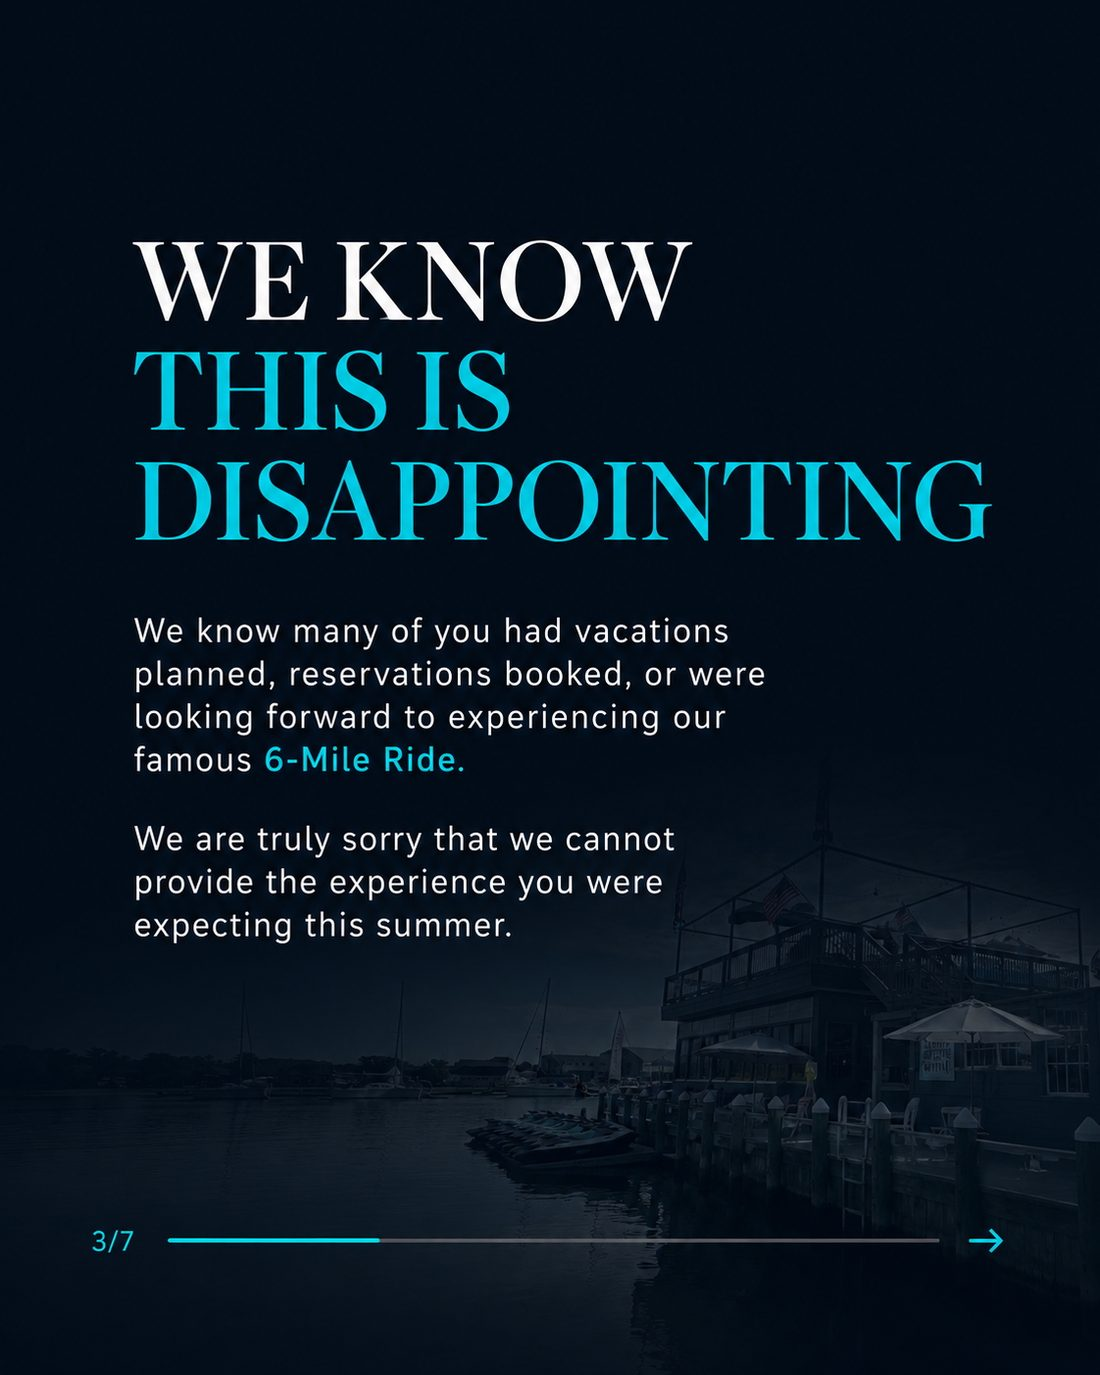
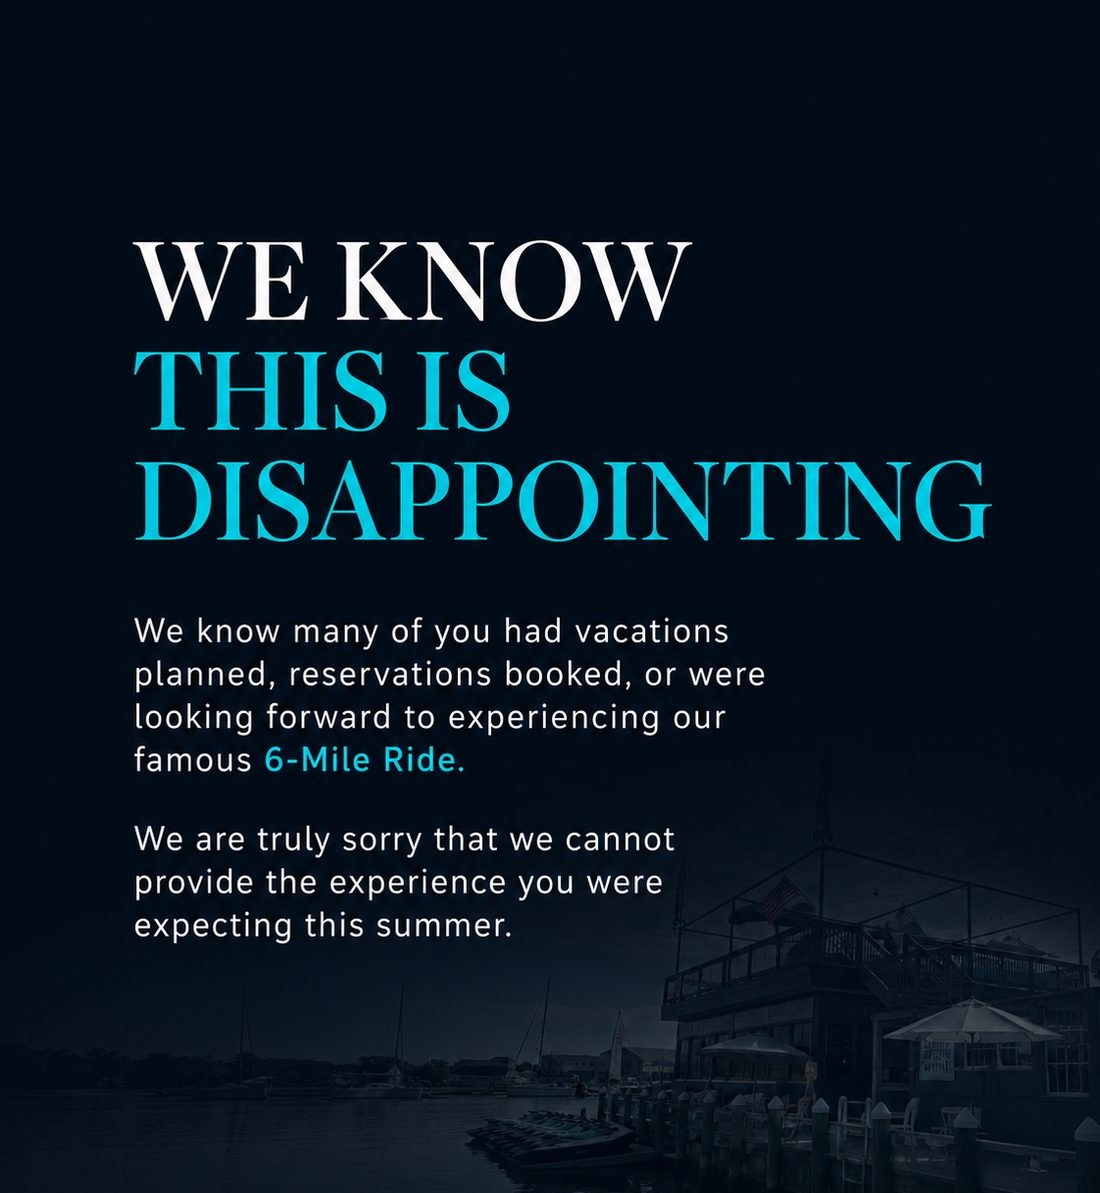
Notice popup: crop slide pager bars, add scroll-down hint
The n/7 progress bars (designed for horizontal swiping) are cropped
out of each slide, detected per slide since positions vary. A bouncing
"Scroll for more" pill now floats above the sticky call bar and fades
once the visitor scrolls. Also fixes the popup sometimes opening
mid-scroll: scroll anchoring is disabled on the card and slides get
explicit dimensions so image loads no longer shift the scroll position.

diff --git a/suspension-notice.js b/suspension-notice.js
@@ -28,7 +28,7 @@
   var css = '' +
     '.ntcpop { position: fixed; inset: 0; z-index: 99999; display: none; align-items: center; justify-content: center; padding: 1rem; background: rgba(2, 25, 34, 0.82); backdrop-filter: blur(6px); -webkit-backdrop-filter: blur(6px); opacity: 0; transition: opacity 0.25s ease; }' +
     '.ntcpop.is-open { display: flex; opacity: 1; }' +
-    '.ntcpop__card { position: relative; width: 100%; max-width: 480px; max-height: 92vh; overflow-y: auto; background: #021922; color: #fff; border-radius: 18px; border-top: 4px solid #debc6b; box-shadow: 0 30px 80px rgba(0, 0, 0, 0.55), 0 0 0 1px rgba(222, 188, 107, 0.15); transform: translateY(14px) scale(0.98); transition: transform 0.3s cubic-bezier(0.2, 0.8, 0.2, 1); font-family: "Manrope", system-ui, sans-serif; -webkit-overflow-scrolling: touch; }' +
+    '.ntcpop__card { position: relative; width: 100%; max-width: 480px; max-height: 92vh; overflow-y: auto; background: #021922; color: #fff; border-radius: 18px; border-top: 4px solid #debc6b; box-shadow: 0 30px 80px rgba(0, 0, 0, 0.55), 0 0 0 1px rgba(222, 188, 107, 0.15); transform: translateY(14px) scale(0.98); transition: transform 0.3s cubic-bezier(0.2, 0.8, 0.2, 1); font-family: "Manrope", system-ui, sans-serif; -webkit-overflow-scrolling: touch; overflow-anchor: none; }' +
     '.ntcpop.is-open .ntcpop__card { transform: translateY(0) scale(1); }' +
     '.ntcpop__card::-webkit-scrollbar { width: 8px; }' +
     '.ntcpop__card::-webkit-scrollbar-track { background: transparent; }' +
@@ -38,6 +38,10 @@
     '.ntcpop__close:focus-visible { outline: 2px solid #debc6b; outline-offset: 2px; }' +
     '.ntcpop__slides { display: block; }' +
     '.ntcpop__slides img { display: block; width: 100%; height: auto; }' +
+    '.ntcpop__scrollhint { position: sticky; bottom: 104px; height: 0; display: flex; justify-content: center; z-index: 4; pointer-events: none; opacity: 1; transition: opacity 0.35s ease; }' +
+    '.ntcpop__scrollhint.is-hidden { opacity: 0; }' +
+    '.ntcpop__scrollhint span { display: inline-flex; align-items: center; gap: 7px; background: rgba(2, 25, 34, 0.88); border: 1px solid rgba(222, 188, 107, 0.55); color: #debc6b; font-size: 0.7rem; font-weight: 800; letter-spacing: 2px; text-transform: uppercase; padding: 7px 15px; border-radius: 999px; box-shadow: 0 4px 16px rgba(0, 0, 0, 0.4); animation: ntcpopBounce 1.6s ease-in-out infinite; }' +
+    '@keyframes ntcpopBounce { 0%, 100% { transform: translateY(-46px); } 50% { transform: translateY(-38px); } }' +
     '.ntcpop__ctabar { position: sticky; bottom: 0; z-index: 4; background: rgba(2, 25, 34, 0.96); backdrop-filter: blur(4px); -webkit-backdrop-filter: blur(4px); border-top: 1px solid rgba(222, 188, 107, 0.3); text-align: center; padding: 0.85rem 1rem 0.95rem; }' +
     '.ntcpop__cta { display: inline-block; background: #debc6b; color: #23262d; font-weight: 800; font-size: 0.95rem; letter-spacing: 0.08em; text-transform: uppercase; padding: 13px 26px; border-radius: 10px; text-decoration: none; transition: transform 0.15s ease, box-shadow 0.15s ease; }' +
     '.ntcpop__cta:hover { transform: translateY(-1px); box-shadow: 0 8px 24px rgba(222, 188, 107, 0.35); text-decoration: none; }' +
@@ -52,14 +56,15 @@
     '<div class="ntcpop__card">' +
     '  <button type="button" class="ntcpop__close" id="ntcpopClose" aria-label="Close">&times;</button>' +
     '  <div class="ntcpop__slides">' +
-    '    <img src="/images/notice-slide-1.jpg" alt="We\'re sorry. An important update about our jet ski rides." />' +
-    '    <img src="/images/notice-slide-2.jpg" loading="lazy" alt="Jet ski rentals are temporarily paused due to circumstances outside of our control involving the permitting process." />' +
-    '    <img src="/images/notice-slide-3.jpg" loading="lazy" alt="We know this is disappointing. We are truly sorry we cannot provide the famous 6-Mile Ride experience this summer." />' +
-    '    <img src="/images/notice-slide-4.jpg" loading="lazy" alt="The good news: private pontoon boat rentals remain open. Call 410-629-7433 to reserve." />' +
-    '    <img src="/images/notice-slide-5.jpg" loading="lazy" alt="Thank you to everyone who has supported OCA. Voted number 1 best jet ski rentals in Ocean City 2026." />' +
-    '    <img src="/images/notice-slide-6.jpg" loading="lazy" alt="We are actively exploring every option, including an immediate temporary solution for this season. Check our website and social pages for updates." />' +
-    '    <img src="/images/notice-slide-7.jpg" loading="lazy" alt="This isn\'t goodbye. Call 410-629-7433 or visit OCAWatersports.com. Thank you for standing with the OCA Watersports family." />' +
+    '    <img src="/images/notice-slide-1.jpg" width="1100" height="1128" alt="We\'re sorry. An important update about our jet ski rides." />' +
+    '    <img src="/images/notice-slide-2.jpg" width="1100" height="1256" loading="lazy" alt="Jet ski rentals are temporarily paused due to circumstances outside of our control involving the permitting process." />' +
+    '    <img src="/images/notice-slide-3.jpg" width="1100" height="1193" loading="lazy" alt="We know this is disappointing. We are truly sorry we cannot provide the famous 6-Mile Ride experience this summer." />' +
+    '    <img src="/images/notice-slide-4.jpg" width="1100" height="1259" loading="lazy" alt="The good news: private pontoon boat rentals remain open. Call 410-629-7433 to reserve." />' +
+    '    <img src="/images/notice-slide-5.jpg" width="1100" height="1223" loading="lazy" alt="Thank you to everyone who has supported OCA. Voted number 1 best jet ski rentals in Ocean City 2026." />' +
+    '    <img src="/images/notice-slide-6.jpg" width="1100" height="1250" loading="lazy" alt="We are actively exploring every option, including an immediate temporary solution for this season. Check our website and social pages for updates." />' +
+    '    <img src="/images/notice-slide-7.jpg" width="1100" height="1256" loading="lazy" alt="This isn\'t goodbye. Call 410-629-7433 or visit OCAWatersports.com. Thank you for standing with the OCA Watersports family." />' +
     '  </div>' +
+    '  <div class="ntcpop__scrollhint" aria-hidden="true"><span>Scroll for more &darr;</span></div>' +
     '  <div class="ntcpop__ctabar">' +
     '    <a class="ntcpop__cta" href="tel:4106297433" id="ntcpopCta">Call 410-629-RIDE (7433)</a>' +
     '    <span class="ntcpop__alt">or <a href="/pontoon-boats">see our pontoon rentals</a></span>' +
@@ -91,8 +96,18 @@
     var cta = document.getElementById('ntcpopCta');
     var lastFocus = null;
 
+    // Fade the scroll hint once the visitor starts scrolling the slides.
+    var card = pop.querySelector('.ntcpop__card');
+    var hint = pop.querySelector('.ntcpop__scrollhint');
+    if (card && hint) {
+      card.addEventListener('scroll', function () {
+        if (card.scrollTop > 60) { hint.classList.add('is-hidden'); }
+      }, { passive: true });
+    }
+
     function open() {
       lastFocus = document.activeElement;
+      if (card) { card.scrollTop = 0; }
       pop.classList.add('is-open');
       pop.setAttribute('aria-hidden', 'false');
       document.body.style.overflow = 'hidden';
